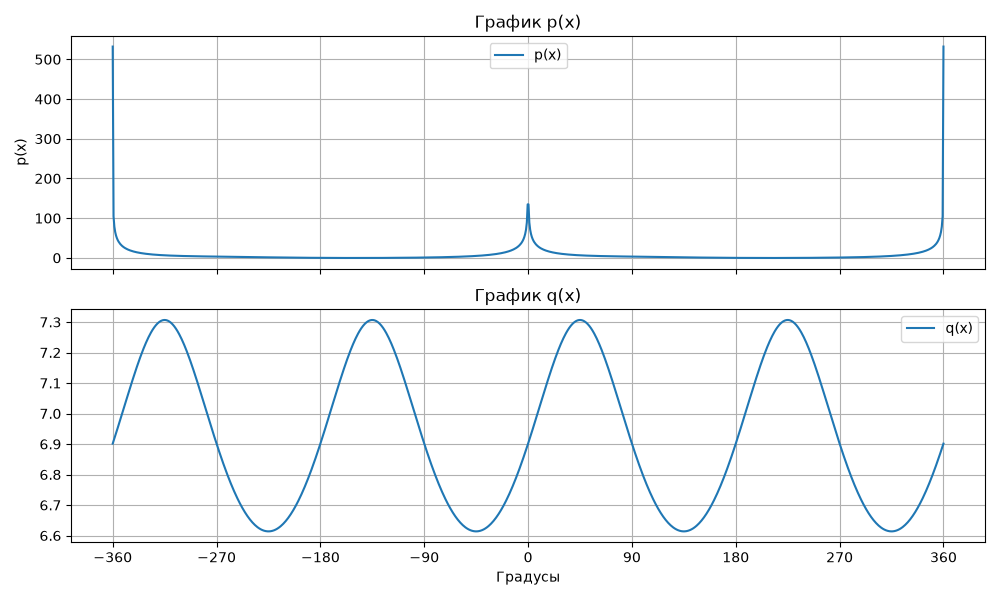
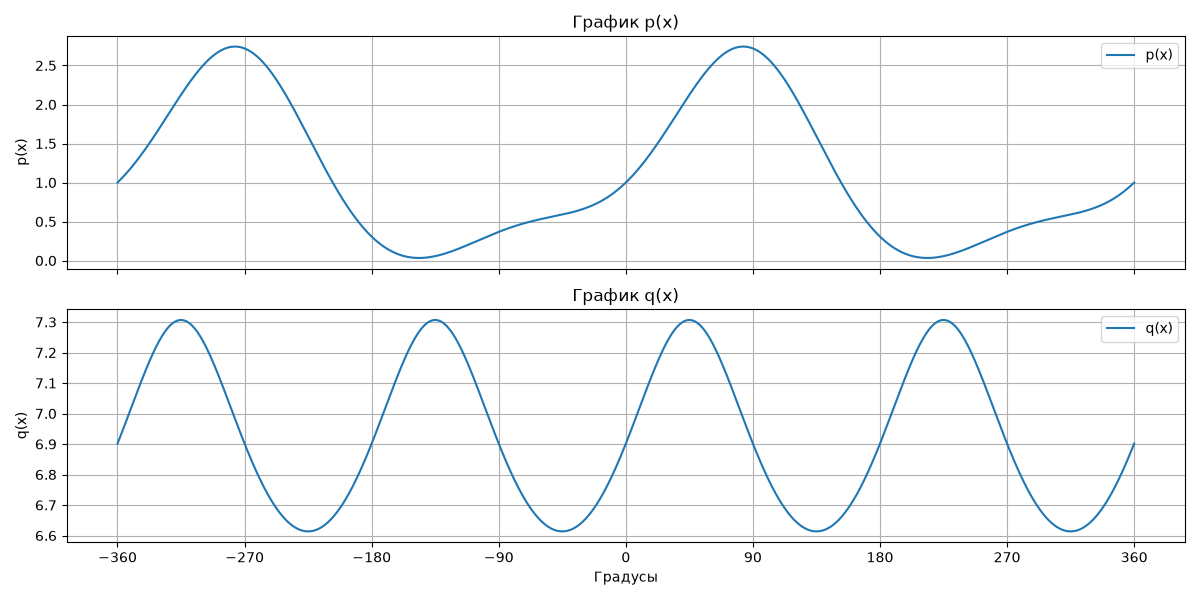
Добавлены изменения в task1

diff --git a/part1_matplotlib/task1.py b/part1_matplotlib/task1.py
@@ -6,10 +6,10 @@ x_deg = np.linspace(-360, 360, 1000)
 x_rad = np.deg2rad(x_deg)
 
 arg_p = np.maximum(np.sin(0.5 * x_rad)**2, 1e-10)
-p = np.exp(np.sin(x_rad)) + (np.log(arg_p))**2 + np.cos(x_rad)
+p = np.exp(np.sin(x_rad)) + np.log(np.sin(0.5 * x_rad)**2 + 1) * np.cos(x_rad)
 q = -np.log((np.sin(x_rad) - np.cos(x_rad))**2 + 2) + 8
 
-fig, (ax1, ax2) = plt.subplots(2, 1, figsize=(10, 6),sharex=True)
+fig, (ax1, ax2) = plt.subplots(2, 1, figsize=(12, 6),sharex=True)
 
 
 ax1.plot(x_deg,p,label='p(x)')
@@ -21,6 +21,7 @@ ax1.legend()
 ax2.plot(x_deg,q,label='q(x)')
 ax2.set_title('График q(x)')
 ax2.set_xlabel('Градусы')
+ax2.set_ylabel('q(x)')
 ax2.grid(True)
 ax2.legend()
 
